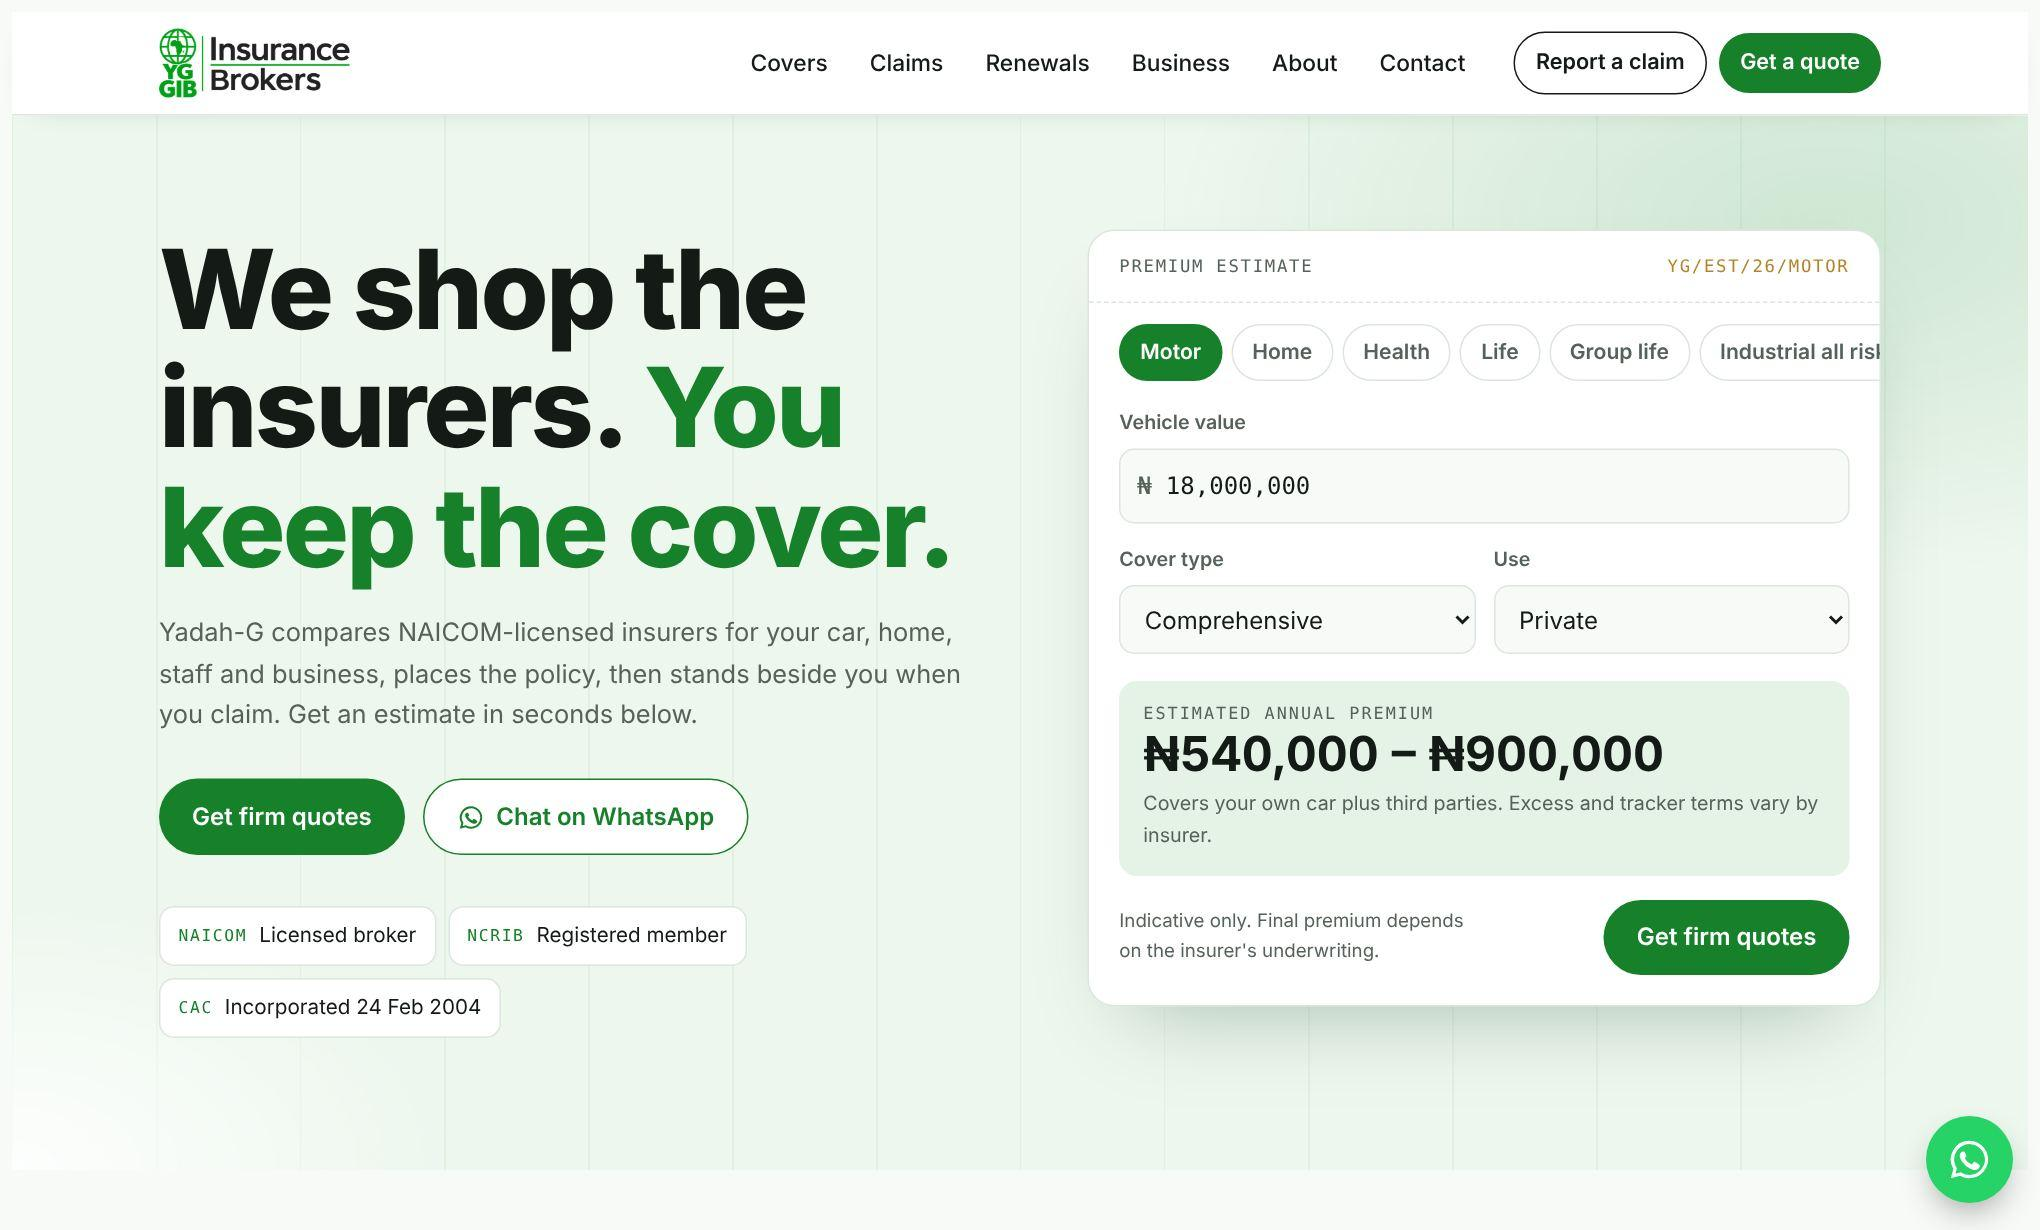
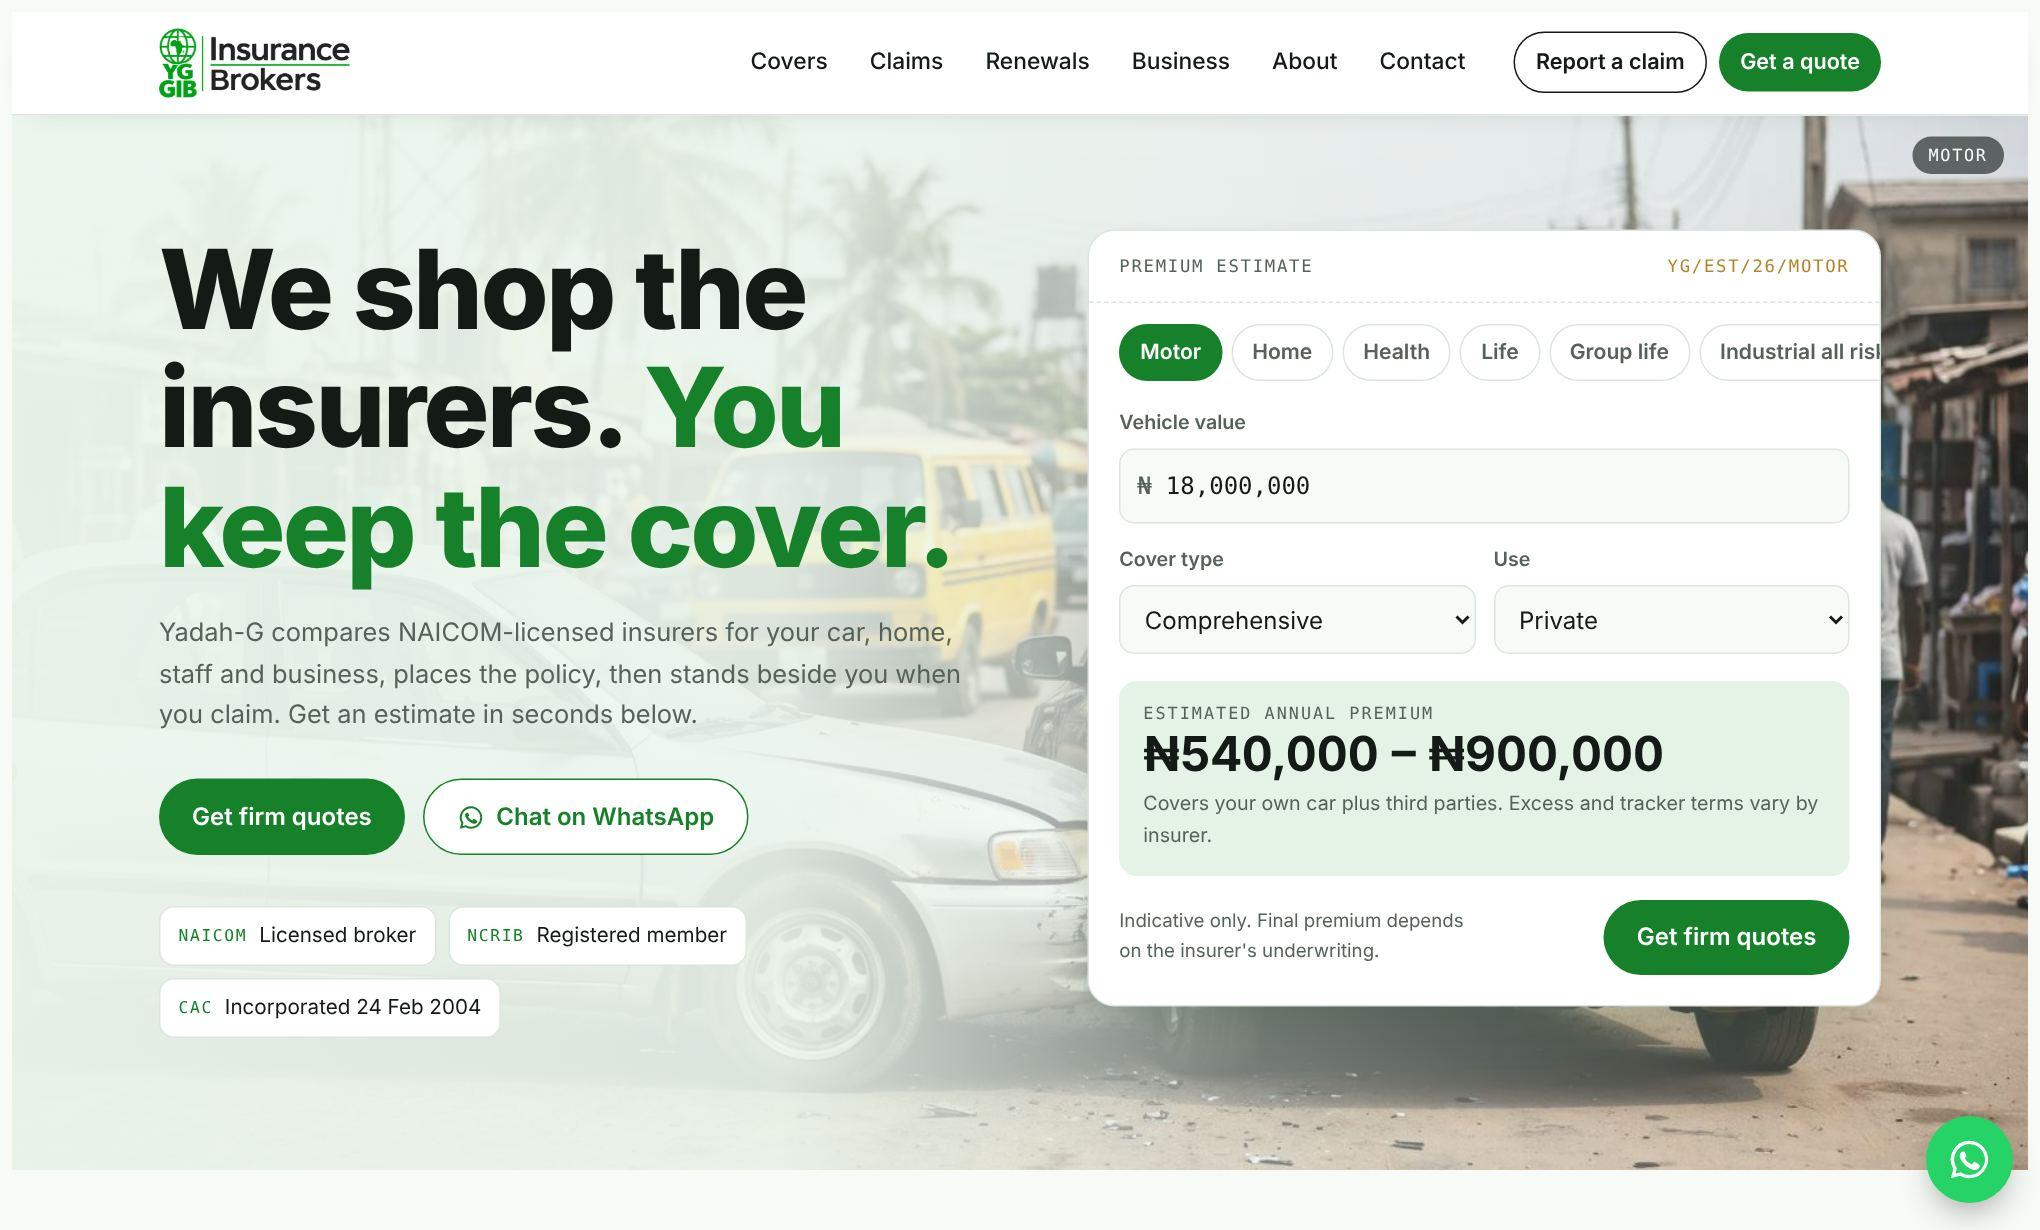
Update the proposal screenshots with the new photos
Claude-Session: https://claude.ai/code/session_01P3DJhMgW5dGWao7Mx2GAiB

diff --git a/proposal/index.html b/proposal/index.html
@@ -163,9 +163,9 @@ tr:last-child td{border-bottom:0}
   <h2>What I have built</h2>
   <p class="lead">Yadah-G's own details and logo, rebuilt around what clients actually come to do: get a price, buy cover, claim and renew.</p>
   <div class="tour">
-    <div class="feat"><div class="txt"><span class="kicker">Homepage</span><h3>A price in seconds</h3><p class="lead" style="margin:0">The first screen says what a broker does for the client and gives an instant premium estimate. Pick a cover, type in the values, and see an indicative annual premium, then request firm quotes in one tap.</p></div>
+    <div class="feat"><div class="txt"><span class="kicker">Homepage</span><h3>A price in seconds</h3><p class="lead" style="margin:0">The first screen has rotating photos of the risks Yadah-G covers, says what a broker does for the client, and gives an instant premium estimate. Pick a cover, type in the values, and see an indicative annual premium, then request firm quotes in one tap.</p></div>
       <div class="shot"><img src="shots/hero.jpg" alt="New homepage with the premium estimator" loading="lazy" width="2040" height="1230"></div></div>
-    <div class="feat flip"><div class="txt"><span class="kicker">Covers</span><h3>Personal and business, clearly laid out</h3><ul><li>Motor, home, health and life for individuals and families</li><li>Group life, industrial all risk, fire, goods in transit and professional indemnity for companies</li><li>Reinsurance placement for insurers</li><li>Every cover links to its estimate or a quote request</li></ul></div>
+    <div class="feat flip"><div class="txt"><span class="kicker">Covers</span><h3>Personal and business, clearly laid out</h3><ul><li>Motor, home, health and life for individuals and families</li><li>Group life, industrial all risk, fire, goods in transit and professional indemnity for companies</li><li>Reinsurance placement for insurers</li><li>A photo for every cover, set in Lagos where it fits</li><li>Every cover links to its estimate or a quote request</li></ul></div>
       <div class="shot"><img src="shots/covers.jpg" alt="Grid of personal and business covers" loading="lazy" width="2040" height="1230"></div></div>
     <div class="feat"><div class="txt"><span class="kicker">Claims</span><h3>Report it, then follow it to payment</h3><p class="lead" style="margin:0">Clients report a claim with photos or a police report and get a reference number. With that reference and their phone number, they can check each stage, from received to settled, with notes from the team.</p></div>
       <div class="shot"><img src="shots/claims.jpg" alt="Claim report form and claim tracking timeline" loading="lazy" width="2040" height="1320"></div></div>
@@ -174,7 +174,7 @@ tr:last-child td{border-bottom:0}
     <div class="feat"><div class="txt"><span class="kicker">Staff desk</span><h3>The team runs it themselves</h3><ul><li>Summary of new quotes, open claims, renewals due and calls to return</li><li>Update a claim's stage. The client sees it when tracking</li><li>Renewals sorted by expiry, with a WhatsApp reminder button</li><li>Edit the estimator's rates without a developer</li><li>Optional email alerts for every new request</li></ul></div>
       <div class="shot"><img src="shots/admin.jpg" alt="Staff desk showing open claims" loading="lazy" width="2040" height="1290"></div></div>
     <div class="feat flip"><div class="txt"><span class="kicker">Mobile</span><h3>Built for the phone first</h3><p class="lead" style="margin:0">Most visitors in Lagos arrive on a phone, often on mobile data. The new site is one light page that loads fast, with WhatsApp a thumb away on every screen.</p></div>
-      <div class="shot phone"><img src="shots/mobile.jpg" alt="Group life estimate on a phone" loading="lazy" width="585" height="1200"></div></div>
+      <div class="shot phone"><img src="shots/mobile.jpg" alt="New homepage on a phone" loading="lazy" width="585" height="1200"></div></div>
   </div>
 </div></section>
 
